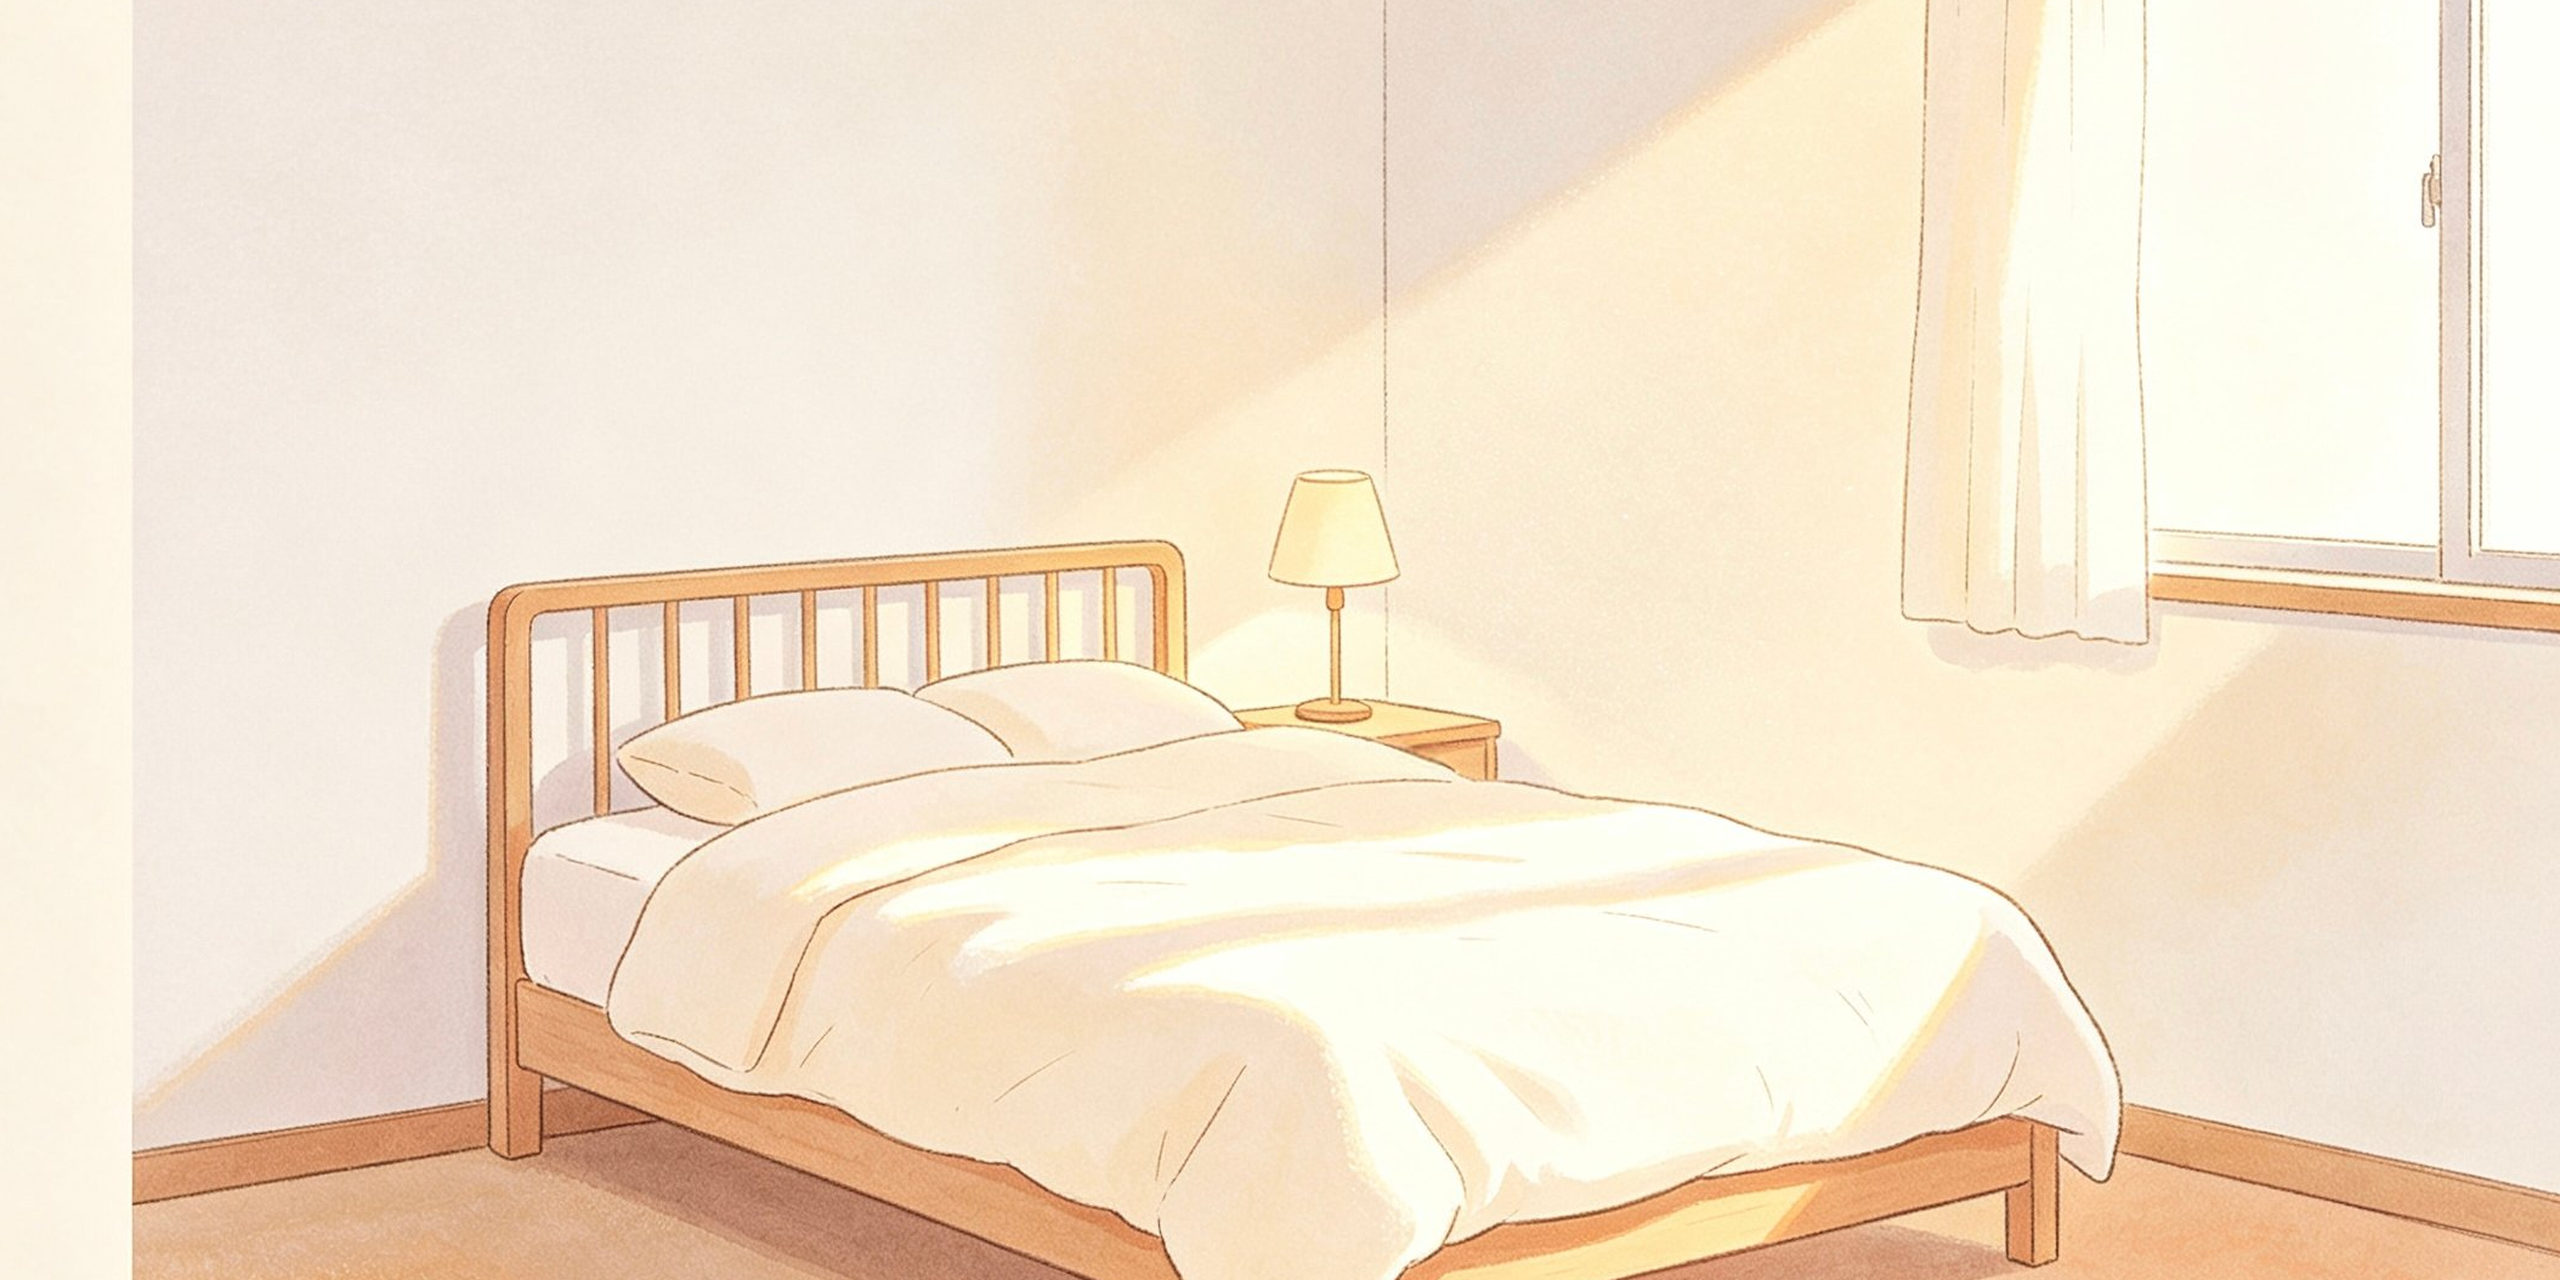
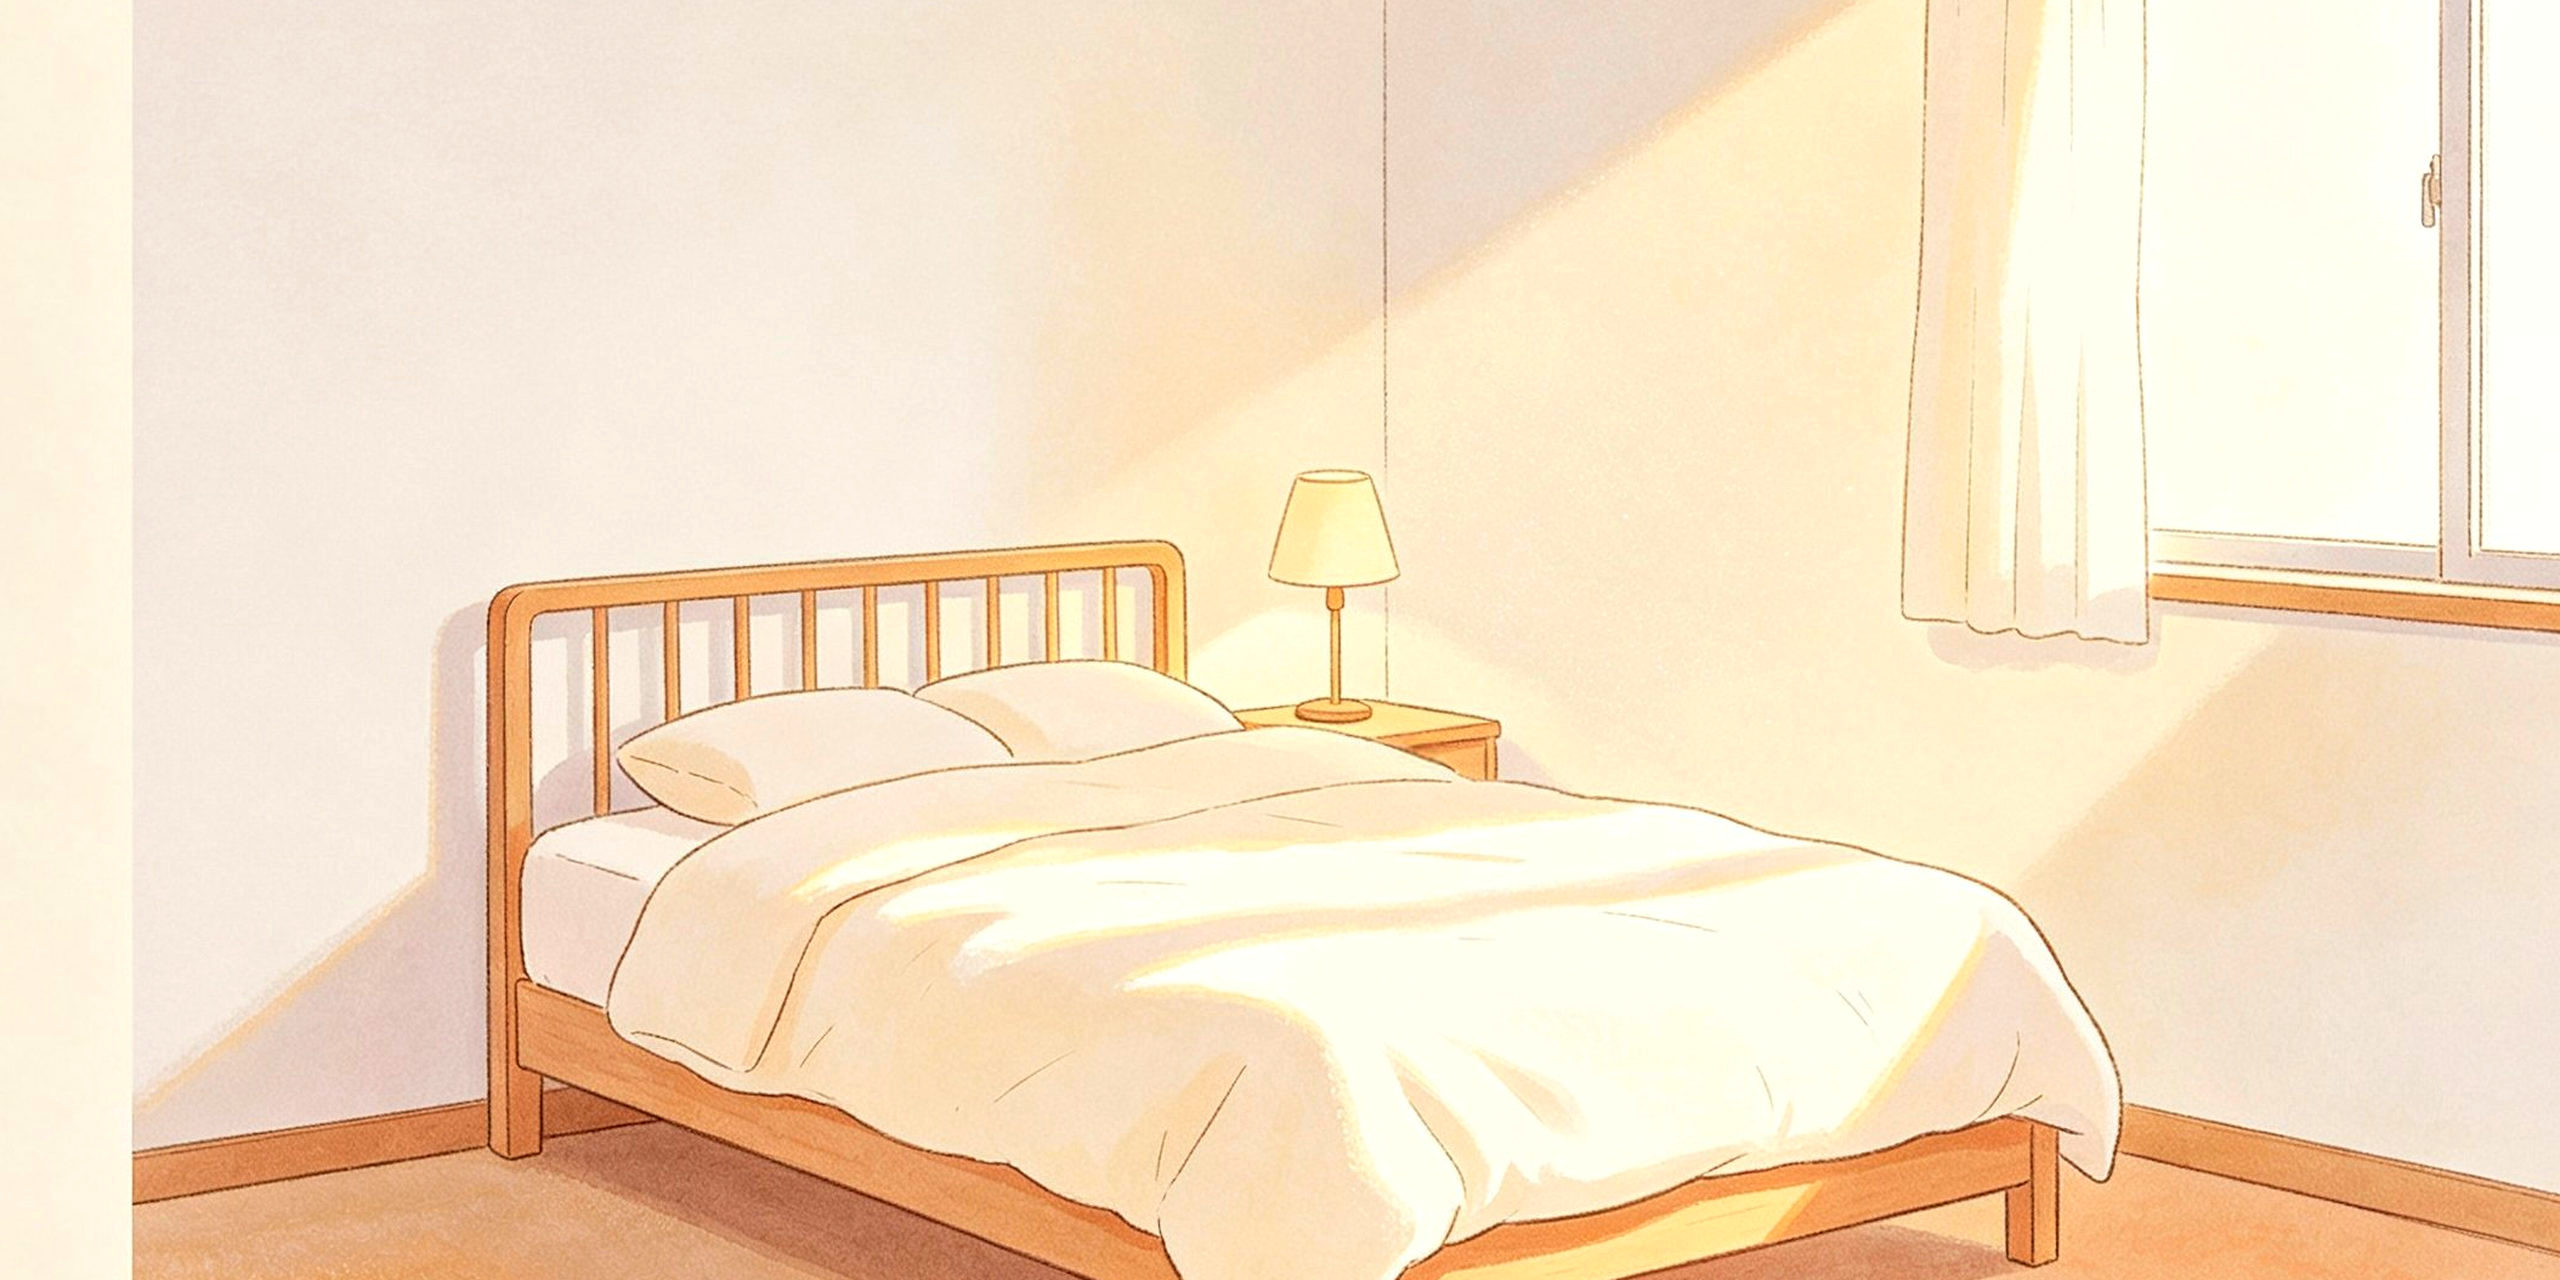
v1.12：休息底图按休息自身的开始时间判昼夜（晚休永远是夜里那张）

diff --git a/src/components/Stage.tsx b/src/components/Stage.tsx
@@ -6,6 +6,7 @@ import {
   dailySalary,
   earnedAt,
   fmtDuration,
+  minutesOf,
   perSecond,
   progressOf,
   remainingSeconds,
@@ -81,9 +82,19 @@ interface Props {
 }
 
 /** 白天 6:00–18:00 用白天那张，其余用夜里那张 */
-function isDaylight(d: Date) {
-  const h = d.getHours()
+function isDayHour(h: number) {
   return h >= 6 && h < 18
+}
+
+/**
+ * 判断「这一屏该不该是夜里」用的钟点：
+ * - 午休/晚休看休息本身几点开始（晚休 18:00 就该是夜里那张床，跟现在几点无关）
+ * - 其余时段看当下的真实钟点
+ */
+function hourFor(phase: Phase, config: SalaryConfig) {
+  if (phase === 'lunch') return Math.floor(minutesOf(config.lunchStart) / 60) % 24
+  if (phase === 'dinner') return Math.floor(minutesOf(config.dinnerStart) / 60) % 24
+  return new Date().getHours()
 }
 
 /**
@@ -140,7 +151,7 @@ export function Stage({ config, now, phase, variant = 'card' }: Props) {
               ? '还没开始，先攒点力气'
               : '今天到此为止，辛苦了'
 
-  const day = isDaylight(new Date())
+  const day = isDayHour(hourFor(phase, config))
   const photo = bgFor(phase, day)
   const today = `${now.getFullYear()}.${String(now.getMonth() + 1).padStart(2, '0')}.${String(
     now.getDate(),
